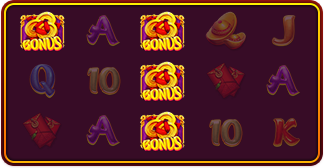
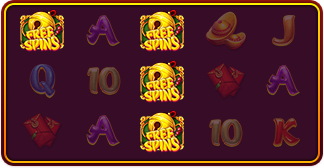
fix: update free-spin image

diff --git a/src/components/game-guide/fortune-cat/en/index.tsx b/src/components/game-guide/fortune-cat/en/index.tsx
@@ -311,7 +311,7 @@ const renderFreeSpin = (odds: number[][]) => {
                     <div className={Styles[freeSpinContentEX]}>
                         <div className={Styles["wrapper-free-spin-ex"]}>
                             <img
-                                src="/static/images/fortune-cat/guide_example_freespin.png#v1"
+                                src="/static/images/fortune-cat/guide_example_freespin.png#v4"
                                 alt="guide_item_symbol_bg"
                                 width={265}
                                 height={125}

diff --git a/src/components/game-guide/fortune-cat/vi/index.tsx b/src/components/game-guide/fortune-cat/vi/index.tsx
@@ -129,7 +129,7 @@ const renderFreeSpin = (odds: number[][]) => {
                     <div className={Styles[freeSpinContentEX]}>
                         <div className={Styles["wrapper-free-spin-ex"]}>
                             <img
-                                src="/static/images/fortune-cat/guide_example_freespin.png#v1"
+                                src="/static/images/fortune-cat/guide_example_freespin.png#v4"
                                 alt="guide_item_symbol_bg"
                                 loading="eager"
                             />

diff --git a/src/assets/components/_new-base-slot-game.scss b/src/assets/components/_new-base-slot-game.scss
@@ -111,7 +111,6 @@
 
 .wrapper-free-spin-ex {
     max-width: 33.3rem;
-    max-height: 12.6rem;
     float: left;
     margin-right: 1rem;
 }
